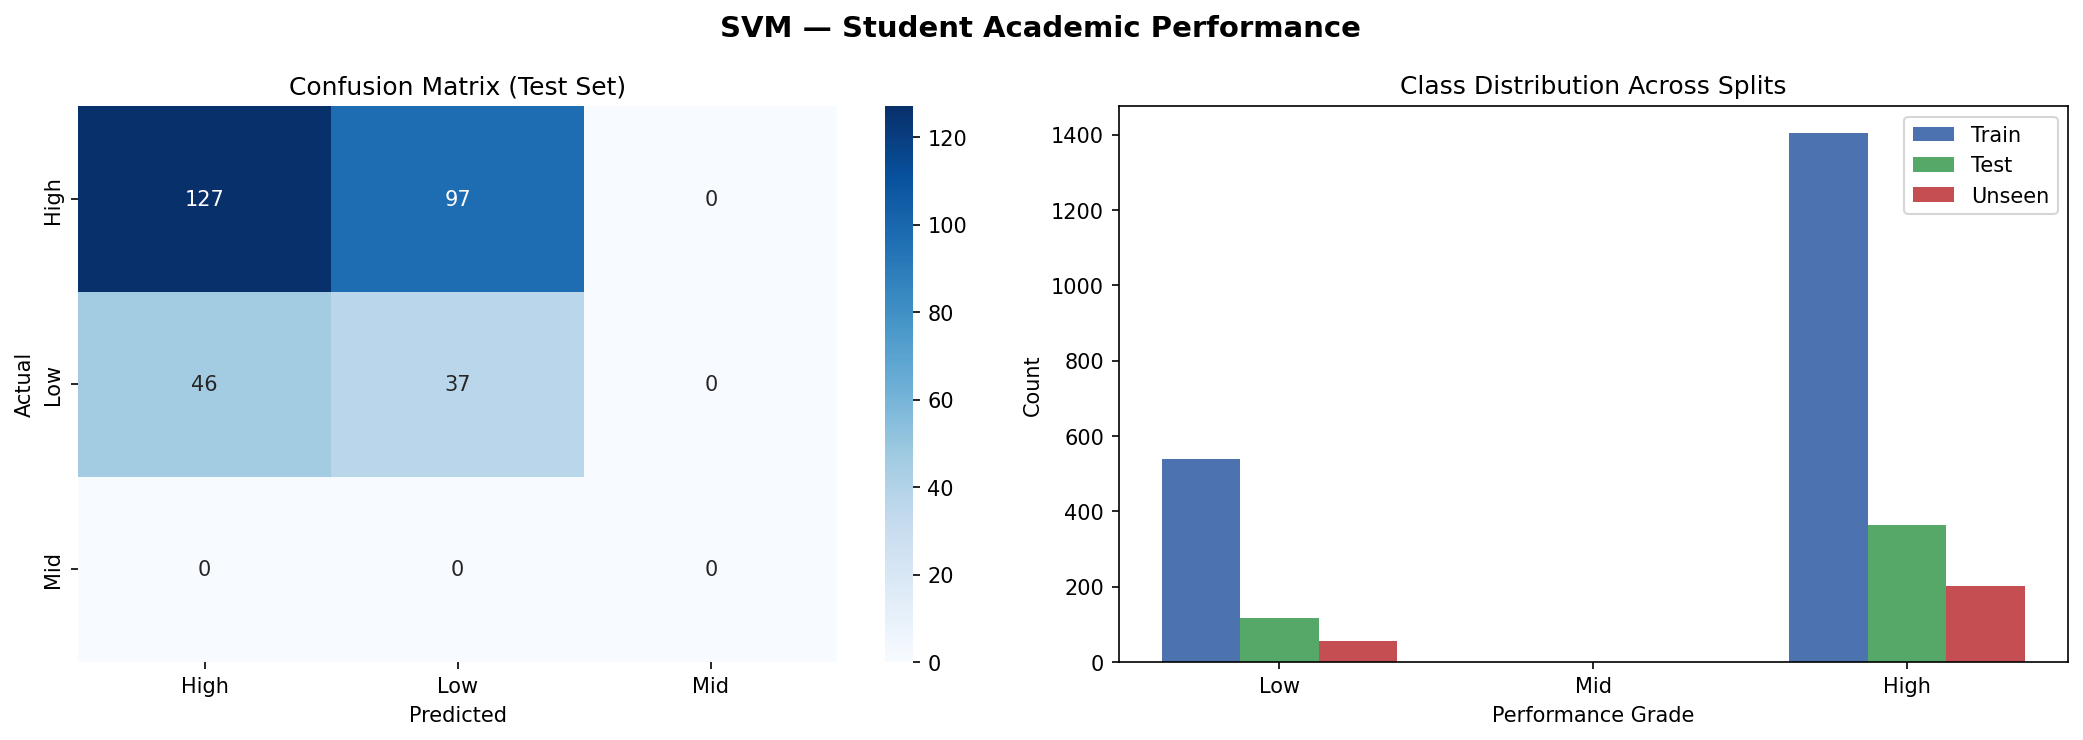
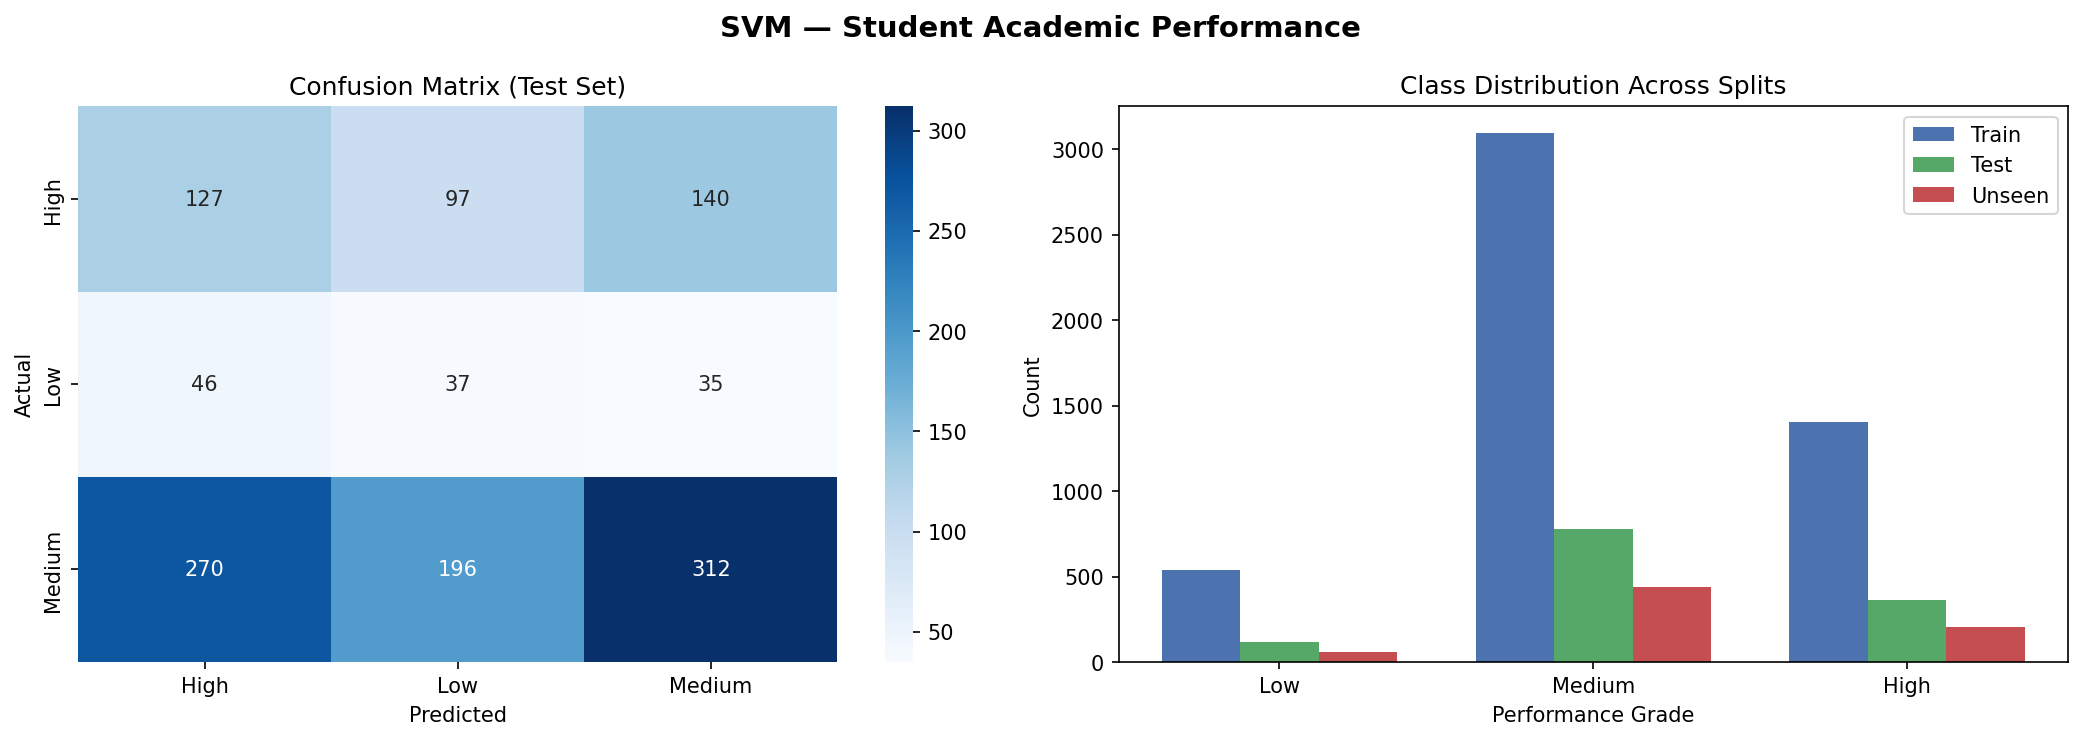
Fixed label mismatch

diff --git a/src/SVM.py b/src/SVM.py
@@ -57,7 +57,7 @@ print("  TEST SET EVALUATION")
 print("=" * 55)
 print(f"Accuracy : {accuracy_score(y_test, y_pred):.4f}")
 print("\nClassification Report:")
-print(classification_report(y_test, y_pred, target_names=["High", "Low", "Mid"]))
+print(classification_report(y_test, y_pred, target_names=["High", "Low", "Medium"]))
 
 y_unseen_pred = svm_model.predict(X_unseen_scaled)
 
@@ -66,12 +66,12 @@ print("  UNSEEN DATA EVALUATION")
 print("=" * 55)
 print(f"Accuracy : {accuracy_score(y_unseen, y_unseen_pred):.4f}")
 print("\nClassification Report:")
-print(classification_report(y_unseen, y_unseen_pred, target_names=["High", "Low", "Mid"]))
+print(classification_report(y_unseen, y_unseen_pred, target_names=["High", "Low", "Medium"]))
 
 # ──────────────────────────────────────────────
 # CONFUSION MATRIX PLOT (Test Set)
 # ──────────────────────────────────────────────
-labels = ["High", "Low", "Mid"]
+labels = ["High", "Low", "Medium"]
 cm = confusion_matrix(y_test, y_pred, labels=labels)
 
 fig, axes = plt.subplots(1, 2, figsize=(14, 5))
@@ -85,7 +85,7 @@ axes[0].set_xlabel("Predicted")
 axes[0].set_ylabel("Actual")
 
 # Class distribution comparison
-class_order = ["Low", "Mid", "High"]
+class_order = ["Low", "Medium", "High"]
 train_counts = train_df["Performance"].value_counts().reindex(class_order)
 test_counts = test_df["Performance"].value_counts().reindex(class_order)
 unseen_counts = unseen_df["Performance"].value_counts().reindex(class_order)
